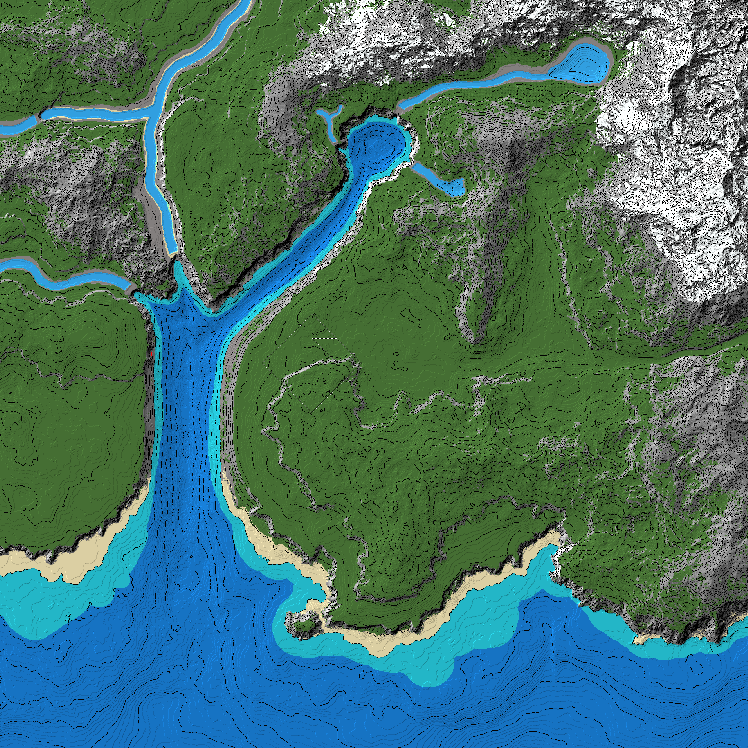
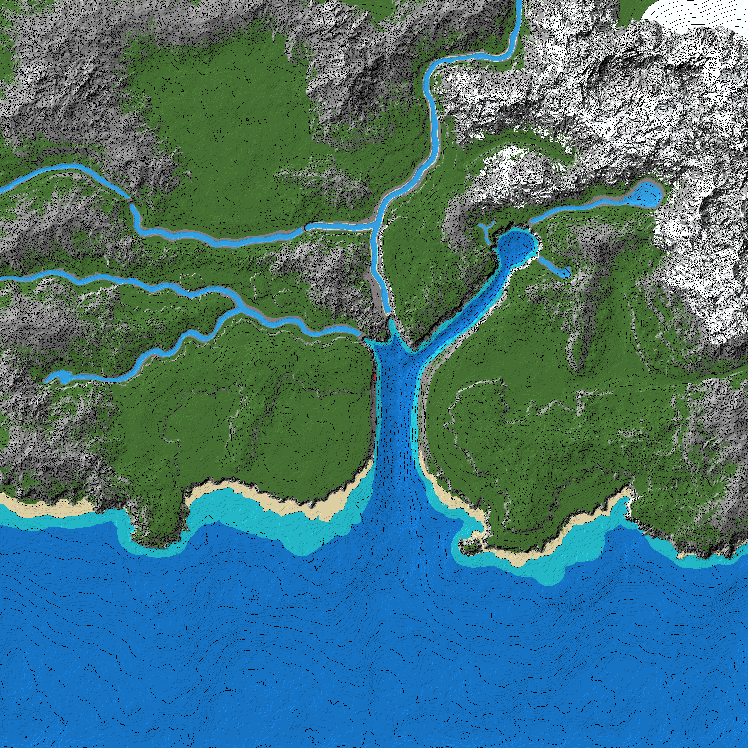
Update Showcase

diff --git a/showcase.html b/showcase.html
@@ -42,7 +42,10 @@
                     <div class="columns is-multiline">
                         <!-- Terrain System Brickmap Levels -->
                         <div class="column is-centred">
-                            <img class="has-border enlarge-on-hover" src="assets/showcase/terrain-system-brickmap-levels.png">
+                            <div class="has-gray-background has-drop-shadow has-border enlarge-on-hover">
+                                <img class="has-border" src="assets/showcase/terrain-system-brickmap-levels.png">
+                                <p>Terrain Brickmap Levels</p>
+                            </div>
                         </div>
                         <!-- SDF Kettle -->
                         <div class="column is-centred">
@@ -83,6 +86,10 @@
                         <!-- Mushroom Platformer -->
                         <div class="column is-centred">
                             <img class="has-border enlarge-on-hover" src="assets/showcase/mushroom-platformer.png">
+                        </div>
+                        <!-- Chupacabra Puzzler -->
+                        <div class="column is-centred">
+                            <img class="has-border enlarge-on-hover" src="assets/showcase/chupacabra-puzzler.png">
                         </div>
                         <!-- Per Tempus -->
                         <div class="column is-centred">
